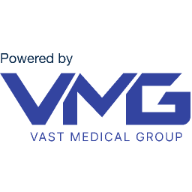
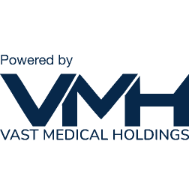
fix: last tweaks

Changed region(s): [[0.0, 0.25, 1.0, 0.75]]

diff --git a/resources/js/screens/Home.tsx b/resources/js/screens/Home.tsx
@@ -1,16 +1,17 @@
 import { Link } from "react-router-dom";
 
 import FreestyleLibre from "./freestyle.png";
+import { Button } from "~/components/Button";
 
 export const Home = () => {
   return (
     <div className="flex items-center justify-between">
-      <div className="flex w-[36%] flex-col gap-12 self-center">
-        <div className="flex flex-col gap-4">
-          <h3 className="text-2xl font-bold text-[#D54115]">
+      <div className="flex w-[40%] flex-col gap-12 self-center">
+        <div className="flex flex-col gap-8">
+          <h3 className="text-2xl font-bold text-freestyle-libre-red">
             FreeStyle Libre 3 system
           </h3>
-          <h1 className="text-6xl text-[#07284A]">
+          <h1 className="text-6xl text-blue">
             Designed with <b>you</b> in mind
           </h1>
 
@@ -20,11 +21,13 @@ export const Home = () => {
             glance.
           </p>
         </div>
-        <Link
-          to="/stepForm"
-          className="w-2/3 rounded-md bg-[#0B406F] px-8 py-2 text-center text-white"
-        >
-          Get started
+        <Link to="/stepForm">
+          <Button
+            variant="primary"
+            className="w-2/3 text-center hover:font-bold"
+          >
+            Get started
+          </Button>
         </Link>
       </div>
       <div className="mr-24 w-1/3 pr-24">

diff --git a/resources/views/app.blade.php b/resources/views/app.blade.php
@@ -5,7 +5,7 @@
     <meta charset="utf-8" />
     <meta name="viewport" content="width=device-width, initial-scale=1" />
 
-    <title>Vast Medical</title>
+    <title>Vast Medical Holdings</title>
 
     <link rel="icon" type="image/x-icon" href="/favicon.ico" />
     <link rel="icon" type="image/png" href="/favicon-16x16.png" sizes="16x16" />
